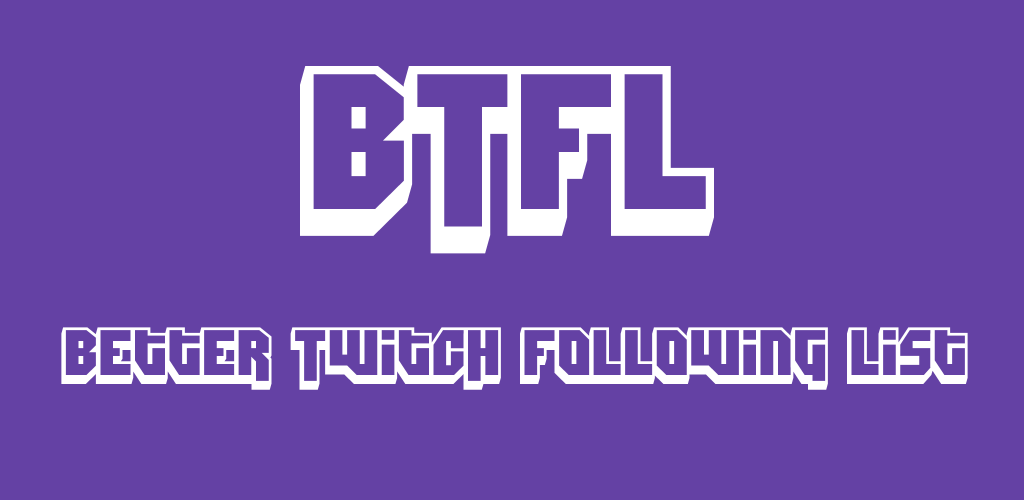
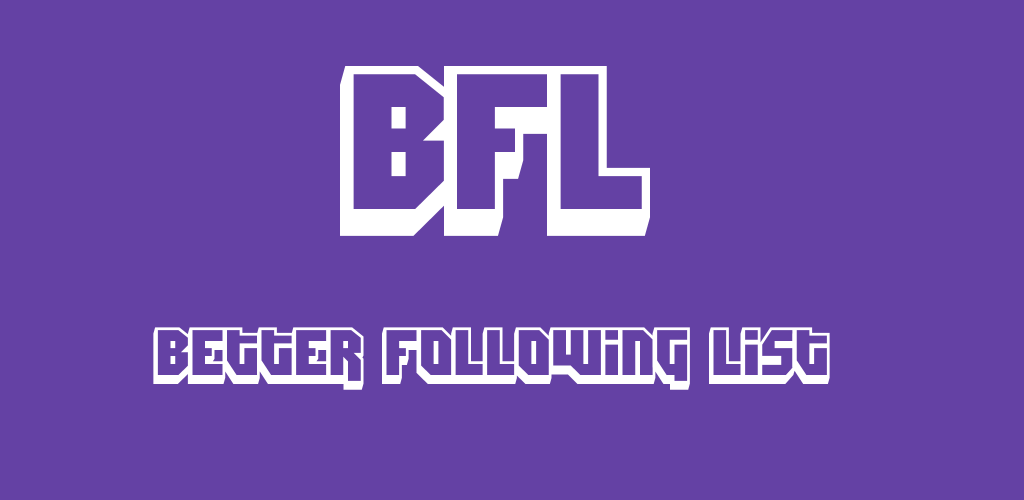
removed "Twitch" from images

Changed region(s): [[0.2812, 0.12, 0.7188, 0.51], [0.0625, 0.63, 0.9688, 0.78]]

diff --git a/API_tester.py b/API_tester.py
@@ -10,18 +10,35 @@ top_games_url = 'https://api.twitch.tv/helix/games/top'
 old_api = 'https://api.twitch.tv/kraken/channels/104962503?api_version=5'
 ids = [30084132, 29183589, 22776112, 21685437]
 ids2 = [28577834]
+154723532,67650991,24147592,110690086,37138771
 
 
 def main():
-    pprint_json(test_url('https://api.twitch.tv/helix/users/follows?first=100&from_id=66712091&after=eyJiIjpudWxsLCJhIjoiIn0'))
+    pprint_json(test_url('https://api.twitch.tv/kraken/streams/?channel=154723532,67650991,24147592,110690086,37138771&api_version=5'))
+
+
+def main5():
+    pprint_json(get_user('TSM_Myth'))
+    pprint_json(get_user('Gotaga'))
+    pprint_json(get_user('RealKraftyy'))
+    pprint_json(get_user('apored'))
+    pprint_json(get_user('uclaoboat'))
 
 
 def main2():
-    pprint_json(get_user('MiST'))
-    pprint_json(get_stream(28577834))
-    s = 'https://api.twitch.tv/helix/streams?user_id=8822&user_id=12826&user_id=2158531&user_id=2783476&user_id=8330235&user_id=9235733&user_id=9679595&user_id=10180554&user_id=10663608&user_id=10794219&user_id=10817445&user_id=12616386&user_id=13784804&user_id=13821412&user_id=14410317&user_id=14836307&user_id=17337557&user_id=18587270&user_id=18730955&user_id=19092542&user_id=19270428&user_id=19397907&user_id=20248706&user_id=20526480&user_id=20687650&user_id=20694610&user_id=20992865&user_id=21685437&user_id=21727348&user_id=21733581&user_id=21841789&user_id=22043840&user_id=22320080&user_id=22344826&user_id=22365608&user_id=22449618&user_id=22776112&user_id=22859340&user_id=22900833&user_id=23161357&user_id=23202645&user_id=23278374&user_id=23473417&user_id=23822990&user_id=23969535&user_id=23973651&user_id=24522509&user_id=24687283&user_id=24811779&user_id=25220444&user_id=25681189&user_id=25766032&user_id=26301881&user_id=26490481&user_id=26535320&user_id=26610234&user_id=26973975&user_id=27396889&user_id=27446517&user_id=27631292&user_id=28412126&user_id=28577834&user_id=28761771&user_id=29183589&user_id=29325859&user_id=29478753&user_id=29714457&user_id=29795919&user_id=29970326&user_id=30080810&user_id=30084132&user_id=30220059&user_id=30284904&user_id=30672745&user_id=30934300&user_id=31259250&user_id=31723226&user_id=32179353&user_id=35049749&user_id=35077780&user_id=35834033&user_id=36029255&user_id=36440656&user_id=36464665&user_id=36551454&user_id=36619478&user_id=36769016&user_id=36990968&user_id=37116492&user_id=37121843&user_id=37136273&user_id=37141180&user_id=37599722&user_id=38270518&user_id=38290568'
-    pprint_json(test_url(s))
-    print(s.count('user_id'))
+    pprint_json(test_url('https://api.twitch.tv/helix/users/follows?first=100&from_id=66712091&after=eyJiIjpudWxsLCJhIjoiIn0'))
+
+
+def main4():
+    pprint_json(test_url('https://api.twitch.tv/helix/streams?user_id=8822&user_id=12826&user_id=2158531&user_id=2783476&user_id=8330235&user_id=9235733&user_id=9679595&user_id=10180554&user_id=10663608&user_id=10794219&user_id=10817445&user_id=12616386&user_id=13784804&user_id=13821412&user_id=14410317&user_id=14836307&user_id=17337557&user_id=18587270&user_id=18730955&user_id=19092542&user_id=19270428&user_id=19397907&user_id=20248706&user_id=20526480&user_id=20687650&user_id=20694610&user_id=20992865&user_id=21685437&user_id=21727348&user_id=21733581&user_id=21841789&user_id=22043840&user_id=22320080&user_id=22344826&user_id=22365608&user_id=22449618&user_id=22776112&user_id=22859340&user_id=22900833&user_id=23161357&user_id=23202645&user_id=23278374&user_id=23473417&user_id=23822990&user_id=23969535&user_id=23973651&user_id=24522509&user_id=24687283&user_id=24811779&user_id=25220444&user_id=25681189&user_id=25766032&user_id=26301881&user_id=26490481&user_id=26535320&user_id=26610234&user_id=26973975&user_id=27396889&user_id=27446517&user_id=27631292&user_id=28412126&user_id=28577834&user_id=28761771&user_id=29183589&user_id=29325859&user_id=29478753&user_id=29714457&user_id=29795919&user_id=29970326&user_id=30080810&user_id=30084132&user_id=30220059&user_id=30284904&user_id=30672745&user_id=30934300&user_id=31259250&user_id=31723226&user_id=32179353&user_id=35049749&user_id=35077780&user_id=35834033&user_id=36029255&user_id=36440656&user_id=36464665&user_id=36551454&user_id=36619478&user_id=36769016&user_id=36990968&user_id=37116492&user_id=37121843&user_id=37136273&user_id=37141180&user_id=37599722&user_id=38270518&user_id=38290568&user_id=38451834&user_id=38467083&user_id=38640167&user_id=38718052&user_id=38961964'))
+
+
+def main3():
+    pprint_json(get_user('PrincezzxDiana'))
+    pprint_json(get_stream(22900833))
+    # s = 
+    # pprint_json(test_url(s))
+    # print(s.count('user_id'))
 
 
 def test_url(url):
